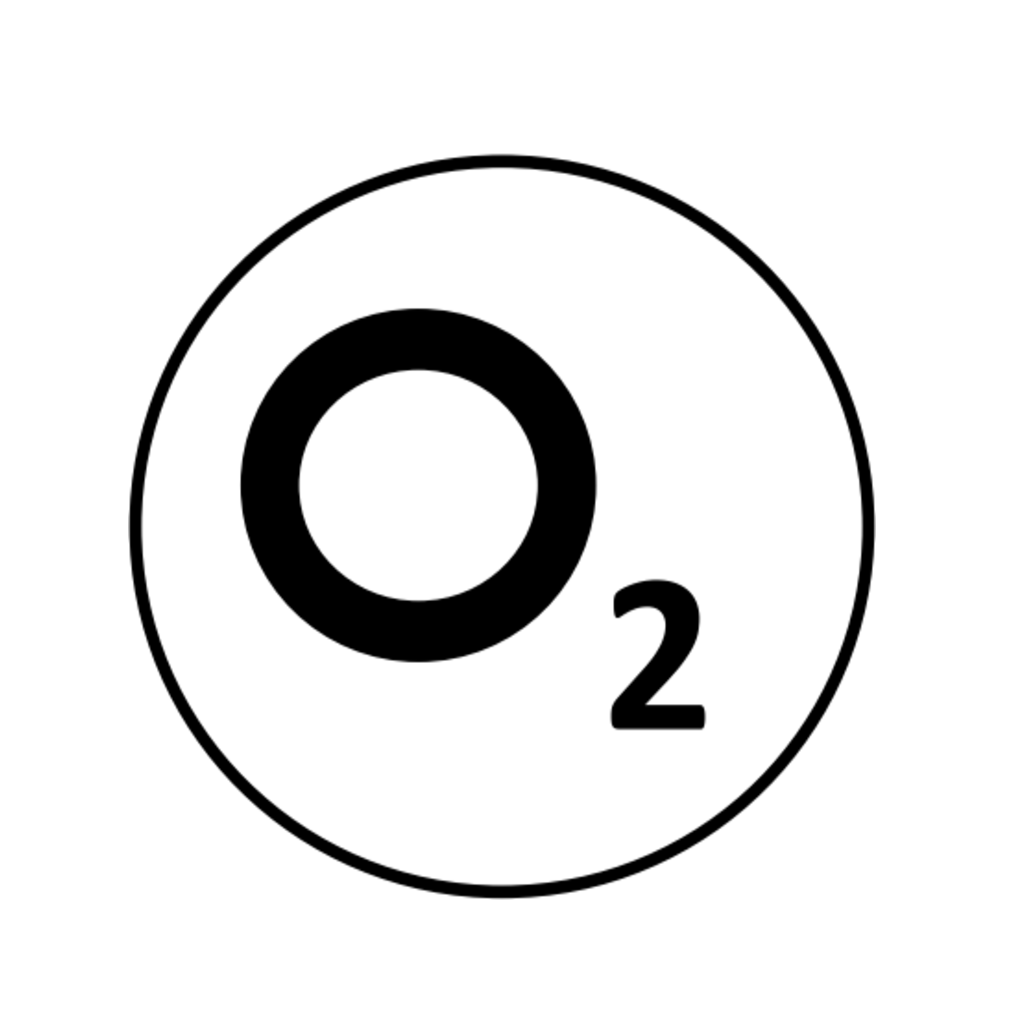
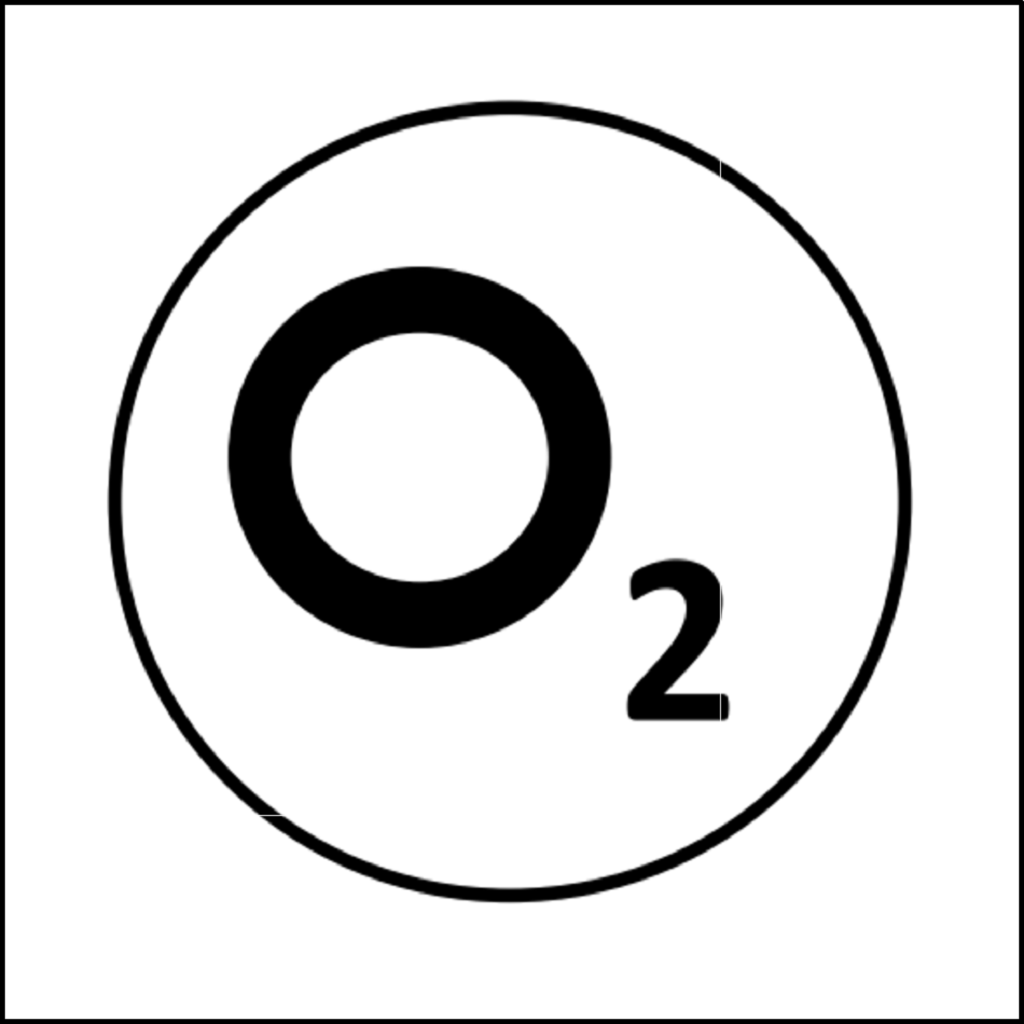
userArea-170821-points: add script add point cluster, modify img ossigeno | 10/09/2017 17.50

diff --git a/module/Application/src/Application/Controller/ConsoleBonusComputeController.php b/module/Application/src/Application/Controller/ConsoleBonusComputeController.php
@@ -78,6 +78,11 @@ class ConsoleBonusComputeController extends AbstractActionController
     private $config;
     
     /**
+     * @var array
+     */
+    private $pointConfig;
+    
+    /**
      * @var
      */
     private $customerPointForm;
@@ -106,7 +111,8 @@ class ConsoleBonusComputeController extends AbstractActionController
         EventsService $eventsService,
         Logger $logger,
         $config,
-        Form $customerPointForm
+        Form $customerPointForm,
+        array $pointConfig
     ) {
         $this->customerService = $customerService;
         $this->tripsService = $tripsService;
@@ -120,6 +126,7 @@ class ConsoleBonusComputeController extends AbstractActionController
         $this->logger = $logger;
         $this->config = $config;
         $this->customerPointForm = $customerPointForm;
+        $this->pointConfig = $pointConfig;
     }
 
     public function bonusComputeAction()
@@ -396,6 +403,9 @@ class ConsoleBonusComputeController extends AbstractActionController
         $this->logger->setOutputType(Logger::TYPE_CONSOLE);
     }
 
+    /*
+     * this method verify/calculate if one customer can receive point day
+     */
     public function addPointDayAction(){        
         
         $dateYesterdayStart = new \DateTime();
@@ -437,75 +447,149 @@ class ConsoleBonusComputeController extends AbstractActionController
             $minuteTripsMonth = round($secondsTripsMonth/60, 0);
             $minuteTripsYesterday = round($secondsTripsYesterday/60, 0);
             
-            $risultato[0] = 0;
-            $risultato[1] = $minuteTripsYesterday;
-            $risultato[2] = $minuteTripsMonth;
+            $result[0] = 0;
+            $result[1] = $minuteTripsYesterday;
+            $result[2] = $minuteTripsMonth;
             
             do{
-                $risultato = $this->howManyPointsAddToUser($risultato);
-            }while($risultato[1]>0);
+                $result = $this->howManyPointsAddToUser($result);
+            }while($result[1]>0);
             
             //add point in customers_points
-            $point = $this->customerPointForm;
-            
-            $data = $this->customerService->setPointField1($risultato[0]);
- 
-            $point->setData($data);
-            $dffdfff=$point->isValid();
-            $this->customerService->setPointField2($point->getData(), $c['id']);
+            $this->addCustomersPoints($result[0], $c['id'], $this->pointConfig['descriptionScriptAddPointDay'], $this->pointConfig['typeDrive']);
             
         }//end foreach custimers
-        
-        echo "";
-        echo "\n";
-        echo "\n";
     }
     
-    private function howManyPointsAddToUser($risultato) {
+    /*
+     * create obj customer and add to db
+     */
+    private function addCustomersPoints($numeberAddPoint, $customerId, $nameScript, $type){
+        $point = $this->customerPointForm;
+        $data = $this->customerService->setPointField1($numeberAddPoint, $nameScript);
+        $point->setData($data);
+        $this->customerService->setPointField2($point->getData(), $customerId, $type);
+    }
+
+    /*
+     * this method calculate how many point add to customer
+     */
+    private function howManyPointsAddToUser($result) {
         
-        if($risultato[2] < 80){
-            if(($risultato[2] + $risultato[1]) < 80){
-                $risultato[0] += $risultato[1];
-                $risultato[1] = -1;
+        if(result[2] < $this->pointConfig['range1AddPointDay']){
+            if((result[2] + result[1]) < $this->pointConfig['range1AddPointDay']){
+                $result[0] += $result[1]*$this->pointConfig['multiplierRange0AddPointDay'];
+                $result[1] = -1;
             }else{
-                $risultato[0] += (80 - $risultato[2]);
-                $risultato[1] = $risultato[1] - (80 - $risultato[2]);
-                $risultato[2] = 80;
+                $result[0] += ($this->pointConfig['range1AddPointDay'] - $result[2])*$this->pointConfig['multiplierRange0AddPointDay'];
+                $result[1] = $result[1] - ($this->pointConfig['range1AddPointDay'] - $result[2]);
+                $result[2] = $this->pointConfig['range1AddPointDay'];
             }
-            return $risultato;     
+            return $result;     
         }else{
-            if($risultato[2] >= 80 && $risultato[2] < 200){
-                if(($risultato[2] + $risultato[1]) < 200){
-                    $risultato[0] += $risultato[1]*2;
-                    $risultato[1] = -1;
+            if($result[2] >= $this->pointConfig['range1AddPointDay'] && $result[2] < $this->pointConfig['range2AddPointDay']){
+                if(($result[2] + $result[1]) < $this->pointConfig['range2AddPointDay']){
+                    $result[0] += $result[1]*$this->pointConfig['multiplierRange1AddPointDay'];
+                    $result[1] = -1;
                 }else{
-                    $risultato[0] += (200 - $risultato[2])*2;
-                    $risultato[1] = $risultato[1] - (200 - $risultato[2]);
-                    $risultato[2] = 200;
+                    $result[0] += ($this->pointConfig['range2AddPointDay'] - $result[2])*$this->pointConfig['multiplierRange1AddPointDay'];
+                    $result[1] = $result[1] - ($this->pointConfig['range2AddPointDay'] - $result[2]);
+                    $result[2] = $this->pointConfig['range2AddPointDay'];
                 }
-                return $risultato;
+                return $result;
             }else{
-                if($risultato[2] >= 200 && $risultato[2] < 600){
-                    if(($risultato[2] + $risultato[1]) < 600){
-                        $risultato[0] += $risultato[1]*3;
-                        $risultato[1] = -1;
+                if($result[2] >= $this->pointConfig['range2AddPointDay'] && $result[2] < $this->pointConfig['range3AddPointDay']){
+                    if(($result[2] + $result[1]) < $this->pointConfig['range3AddPointDay']){
+                        $result[0] += $result[1]*$this->pointConfig['multiplierRange2AddPointDay'];
+                        $result[1] = -1;
                     }else{
-                        $risultato[0] += (600 - $risultato[2])*3;
-                        $risultato[1] = $risultato[1] - (600 - $risultato[2]);
-                        $risultato[2] = 600;
+                        $result[0] += ($this->pointConfig['range3AddPointDay'] - $result[2])*$this->pointConfig['multiplierRange2AddPointDay'];
+                        $result[1] = $result[1] - ($this->pointConfig['range3AddPointDay'] - $result[2]);
+                        $result[2] = $this->pointConfig['range3AddPointDay'];
                     }
-                    return $risultato;
+                    return $result;
                 }else{
-                    if($risultato[2] >= 600){
-                        $risultato[0] += $risultato[1]*4;
-                        $risultato[1] = -1;
-                        return $risultato;
+                    if($result[2] >= $this->pointConfig['range3AddPointDay']){
+                        $result[0] += $result[1]*$this->pointConfig['multiplierRange3AddPointDay'];
+                        $result[1] = -1;
+                        return $result;
                     }//end else if 600
                 }//end else if between 200 and 600
             }//end else if between 80 and 200
         }//end else if 80
     }//end howManyPointsAddToUser
     
+    /*
+     * this method verify if one customer can receive this bonus
+     */
+    public function  addPointClusterAction(){
+        
+        $dateStartCurrentMonth = new \DateTime();
+        $dateStartCurrentMonth = $dateStartCurrentMonth->format("Y-m-d 00:00:00");
+        
+        $dateStartLastMonth = new \DateTime();
+        $dateStartLastMonth = $dateStartLastMonth->modify("-1 month");
+        $dateStartLastMonth = $dateStartLastMonth->format("Y-m-d 00:00:00");
+        
+        $dateStartTwotMonthAgo = new \DateTime();
+        $dateStartTwotMonthAgo = $dateStartTwotMonthAgo->modify("-2 month");
+        $dateStartTwotMonthAgo = $dateStartTwotMonthAgo->format("Y-m-d 00:00:00");
+        
+        $customers= $this->customerService->getCustomersRunThisMonth($dateStartLastMonth, $dateStartCurrentMonth);
+        
+        foreach ($customers as $c){
+            
+            if(!$this->checkCustomerAlreadyAddPointsCluster($c['id'])){
+                $tripsLastMonth = $this->tripsService->getTripsByCustomerForAddPointClusterLastMonth($c['id'], $dateStartLastMonth, $dateStartCurrentMonth);
+                $secondsTripsLastMonth = 0;
+                if(count($tripsLastMonth)>0)
+                    foreach ($tripsLastMonth as $tripLastMonth){
+                        $timeTripsLastMonth = date_diff($tripLastMonth->getTimestampEnd(), $tripLastMonth->getTimestampBeginning());
+                        $secondsTripsLastMonth += $this->calculateTripInSecond($timeTripsLastMonth);
+                    }
+                $minuteTripsLastMonth = round($secondsTripsLastMonth/60, 0);
+
+                if($minuteTripsLastMonth >= pointConfig['newCheckPointCluster']){
+                    $tripsTwotMonthAgo = $this->tripsService->getTripsByCustomerForAddPointClusterTwotMonthAgo($c['id'], $dateStartLastMonth, $dateStartTwotMonthAgo);
+                    $secondsTripsTwotMonthAgo = 0;
+                    if(count($tripsTwotMonthAgo))
+                        foreach ($tripsTwotMonthAgo as $tripTwotMonthAgo){
+                            $timeTripsTwotMonthAgo = date_diff($tripTwotMonthAgo->getTimestampEnd(), $tripTwotMonthAgo->getTimestampBeginning());
+                            $secondsTripsTwotMonthAgo += $this->calculateTripInSecond($timeTripsTwotMonthAgo);
+                        }
+                    $minuteTripsTwotMonthAgo = round($secondsTripsTwotMonthAgo/60, 0);
+                    if($minuteTripsTwotMonthAgo < $this->pointConfig['oldCheckPointCluster']){
+                       //add 80 points for pass cluster 0 to 1
+                       $this->addCustomersPoints($this->pointConfig['pointToAddCluster'], $c['id'], $this->pointConfig['descriptionScriptAddPointCluster'], $this->pointConfig['typeCluster']);
+                    }
+                }
+
+            }//end checkCustomerAlreadyAddPointsCluster
+        }//end foreach
+        echo "\nend script...\n";
+    }//end addPointClusterAction
+    
+    
+    /*
+     * this method check if customer have already received the cluster bonus
+     */
+    private function checkCustomerAlreadyAddPointsCluster($customerId){
+        $points = $this->customerService->getCustomerPointsByCustomer($customerId);
+        if(count($points) > 0){
+            foreach ($points as $p){
+                $a = strtoupper($p->getType());
+                if(strtoupper($p->getType()) == $this->pointConfig['typeCluster'])
+                   return true; 
+            }//end foreach $trips
+        }
+        return false;
+    }
+    
+    /*
+     * this method calculate in second how much one cluster
+     * have runnig with param
+     * Param is an object DateInterval
+     */
     private function calculateTripInSecond($timeTrip) {
         
         $seconds = 0;
@@ -525,11 +609,9 @@ class ConsoleBonusComputeController extends AbstractActionController
         $seconds += $timeTrip->format('%s');
         
         return $seconds;
-    }
+    }//end calculateTripInSecond
 
-
-    public function bonusPoisAction()
-    {
+    public function bonusPoisAction(){
         $this->prepareLogger();
         $request = $this->getRequest();
         $debug = $request->getParam('debug-mode') || $request->getParam('dm');

diff --git a/module/Application/config/module.config.php b/module/Application/config/module.config.php
@@ -275,7 +275,7 @@ return [
                     'defaults' => [
                         '__NAMESPACE__' => 'Application\Controller',
                         'controller' => 'ConsoleBonusCompute',
-                        'action' => 'add-point-day'
+                        'action' => 'add-point-cluster'
                     ],
                     'constraints' => [
                         'mobile' => 'mobile'
@@ -1790,6 +1790,17 @@ return [
                             '__NAMESPACE__' => 'Application\Controller',
                             'controller' => 'ConsoleBonusCompute',
                             'action' => 'add-point-day'
+                        ]
+                    ]
+                ],
+                'add-point-cluster' => [
+                    'type' => 'simple',
+                    'options' => [
+                        'route' => 'add point cluster',
+                        'defaults' => [
+                            '__NAMESPACE__' => 'Application\Controller',
+                            'controller' => 'ConsoleBonusCompute',
+                            'action' => 'add-point-cluster'
                         ]
                     ]
                 ],

diff --git a/module/Application/src/Application/Controller/ConsoleBonusComputeControllerFactory.php b/module/Application/src/Application/Controller/ConsoleBonusComputeControllerFactory.php
@@ -23,6 +23,8 @@ class ConsoleBonusComputeControllerFactory implements FactoryInterface
         $customerPointForm = $sharedServiceManager->get('CustomerPointForm');
         $logger = $sharedServiceManager->get('\SharengoCore\Service\SimpleLoggerService');
         $config = $sharedServiceManager->get('\Configuration')['bonus']['zones'];
+        $config = $sharedServiceManager->get('Config');
+        $pointConfig = $config['point'];
 
         return new ConsoleBonusComputeController(
             $customerService,
@@ -36,7 +38,8 @@ class ConsoleBonusComputeControllerFactory implements FactoryInterface
             $eventsService,
             $logger,
             $config,
-            $customerPointForm
+            $customerPointForm,
+            $pointConfig
         );
     }
 }
